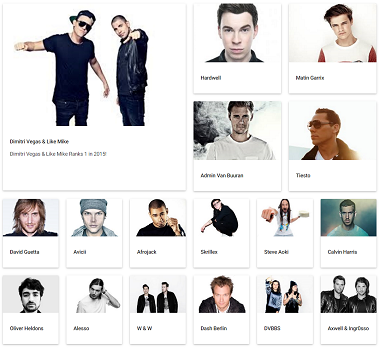
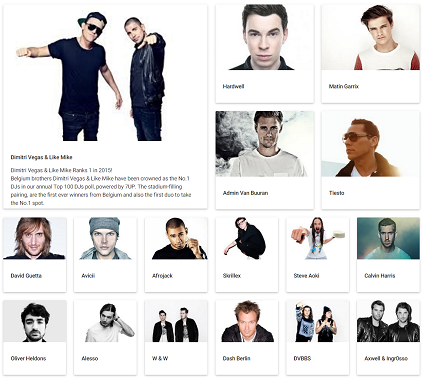
replaced dashboard-layout piture

diff --git a/app/dashboard/dashboard.component.html b/app/dashboard/dashboard.component.html
@@ -10,7 +10,13 @@
 		      		{{ dj.name }}
 	      		</span>
 	      		<div *ngIf="dj.rank === 1">
-	      			<div style="height:94px;"> {{dj.name }} Ranks {{ dj. rank }} in 2015!</div>
+	      			<div style="height:94px;"> {{dj.name }} Ranks {{ dj. rank }} in 2015!
+	      				<p>
+      						Belgium brothers Dimitri Vegas & Like Mike have been crowned as the No.1 DJs in our annual Top 100 DJs poll, powered by 7UP.
+
+							The stadium-filling pairing, are the first ever winners from Belgium and also the first duo to take the No.1 spot.
+	      				</p>
+	      			</div>
 	      		</div>
 		    </div>
 		</div>
